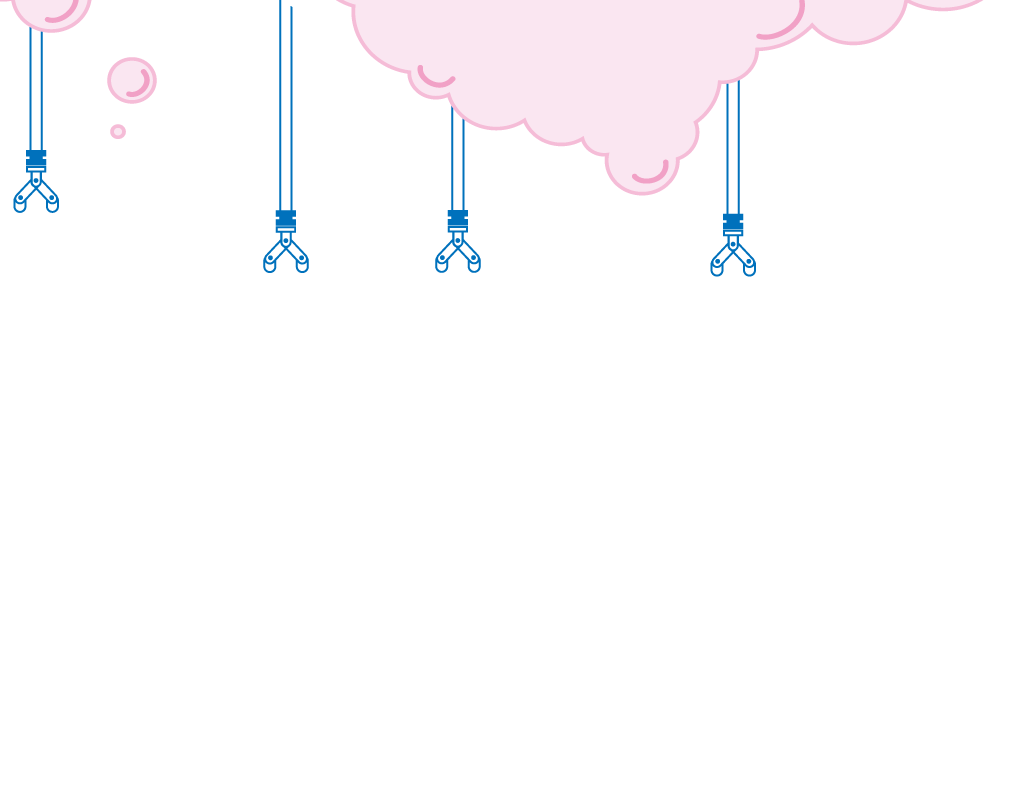
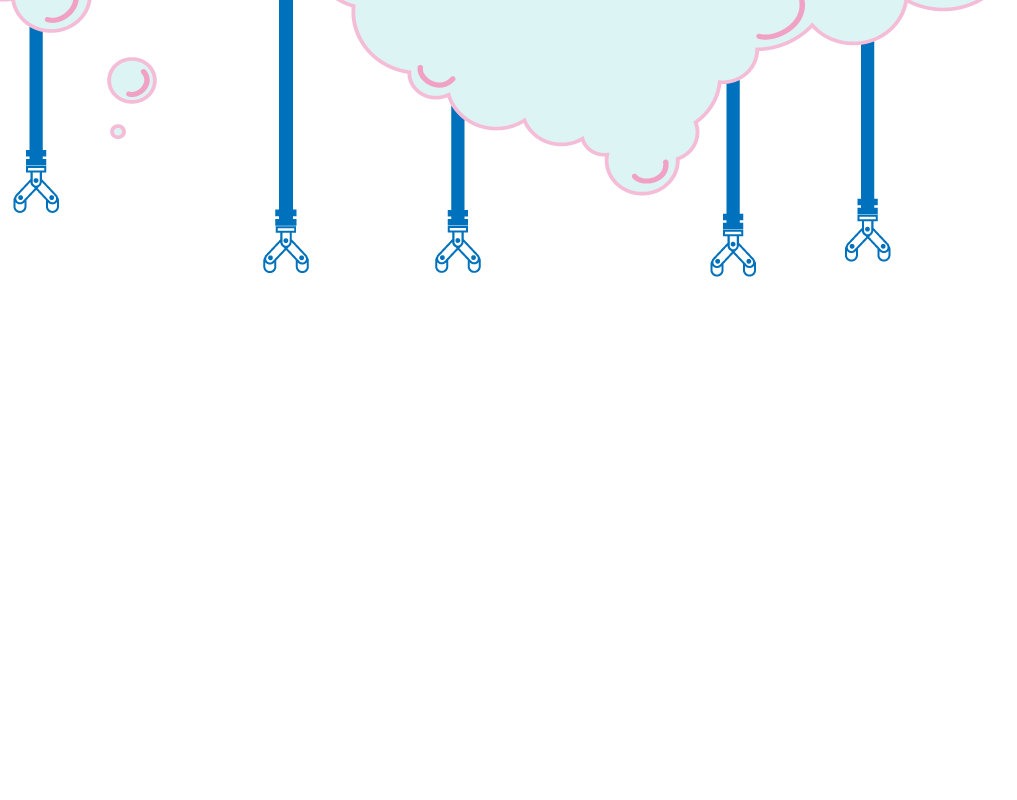
added new jumbotron background, fixed card layout, added new text shadowing for scroll, added text carasoul

diff --git a/sass/styles.scss b/sass/styles.scss
@@ -18,104 +18,95 @@ $shadow2: #cbc7e3;
 
 html,
 body {
-	background: $shadow2;
+	background: #E2E2E3;
 	width: 100%;
 	height: 100%;
+}
+
+#main {
+    width: 100%;
+	height: 100%;    
+}
+
+span {
+    padding-top: 90px;
 }
 #header-background {
     min-height: 100%;
     // min-width: 50%;
-    max-width: 95%;
+    max-width: 100%;
     text-align: center;
     vertical-align: middle;
     position: relative;
 }
 
 #header {
-    font-family: "Constrocktion", sans-serif ;
-    min-height: 50%;
-    min-width: 100%;
+    font-family: 'Dosis', sans-serif;
     text-align: center;
     vertical-align: middle;
     position: relative;
-    color: $face;
-    font-size: 10vw;
+    color: $flourish;
+    font-size: 7vw;
     // padding-top: 4%;
-    padding-bottom: 1%;
-    margin-top: -5%;
+    // padding-bottom: 1%;
+    margin-top: -2%;
+    max-width: 100%;
     letter-spacing: .6rem;
-    background-image: url('../img/mix01.png');
+    text-shadow:
+	1px 1px 0 #CCC,
+	2px 2px 0 #CCC, /* end of 2 level deep grey shadow */
+	3px 3px 0 #444,
+	4px 4px 0 #444,
+	5px 5px 0 #444,
+	6px 6px 0 #444; /* end of 4 level deep dark shadow */
 }
 
 .jumbotron {
-    background-image: url('../img/class-photo.jpg');
+    background-image: url('../img/robot-background-01-01.png');
     background-repeat: no-repeat;
     background-attachment: fixed;
     background-position: center;
     background-size: cover;
-    min-height: 600px;
-    opacity: 0.5;
-    filter: alpha(opacity=50); /* For IE8 and earlier */
-    // // background-blend-mode:lighten;
+    min-height: 650px;
 }
 
-//cards
-// .card-img-top {
-//     display: block;
-//     width: 100%;
-//     height: auto;
-// }
+//moving text box
+#moving-text {
+padding: 2em 2em;
+  font: normal 40px/50px Arial, sans-serif;
+  color: $shadowdots;
+}
+p {
+  height: 50px;
+  float: left;
+  margin-right: 0.3em;
+}
+b {
+  float: left;
+  overflow: hidden;
+  position: relative;
+  height: 50px;
+}
 
-// .card {
-//     font-size: 1em;
-//     overflow: hidden;
-//     padding: 0;
-//     border: none;
-//     border-radius: .28571429rem;
-//     box-shadow: 0 1px 3px 0 #d4d4d5, 0 0 0 1px #d4d4d5;
-// }
+#move {
+ display: inline-block;
+color: #e74c3c;
+position: relative;
+white-space: nowrap;
+top: 0;
+left: 0;
+-webkit-animation: move 5s;
+-webkit-animation-iteration-count: infinite;
+-webkit-animation-delay: 1s;
+}
 
-// .card-inverse .btn {
-//     border: 1px solid rgba(0, 0, 0, .05);
-// }
-
-// .card-block {
-//     font-size: 1em;
-//     position: relative;
-//     margin: 0;
-//     padding: 1em;
-//     border: none;
-//     border-top: 1px solid rgba(34, 36, 38, .1);
-//     box-shadow: none;
-// }
-
-// .card-text {
-//     clear: both;
-//     margin-top: .5em;
-//     color: rgba(0, 0, 0, .68);
-// }
-
-// .card-title {
-//     font-size: 1.28571429em;
-//     font-weight: 700;
-//     line-height: 1.2857em;
-// }
-
-// .card-footer {
-//     font-size: 1em;
-//     position: static;
-//     top: 0;
-//     left: 0;
-//     max-width: 100%;
-//     padding: .75em 1em;
-//     color: rgba(0, 0, 0, .4);
-//     border-top: 1px solid rgba(0, 0, 0, .05) !important;
-//     background: #fff;
-// }
-//
-// .card-inverse .btn {
-//     border: 1px solid rgba(0, 0, 0, .05);
-// }
+@keyframes move {
+0%  { top: 0px; }
+20% { top: -50px; }
+40% { top: -100px; }
+60% { top: -150px; }
+80% { top: -200px; }
+}
 
 .profile {
     position: absolute;

diff --git a/partials/StudentProfiles.html b/partials/StudentProfiles.html
@@ -1,5 +1,16 @@
 
-	<div class="row">
+	<div id="moving-text" class="row">
+		<p>We are</p>
+<b>
+  <span id="move">
+    web developers<br />
+    css cowboys<br />
+    python power rangers<br />
+    robot humans<br />
+    </span>
+</b>
+</div>
+<div class="row">
 	<div class="col-sm-4 col-md-4 col-lg-6 mt-4" style="margin-top: 2em; margin-bottom: 2em;"
 			 ng-repeat="student in studentList"
 			 ng-mouseenter="currentProfileMouseover = $index"
@@ -9,16 +20,16 @@
 			<div class="card card-inverse card-info" style="border: 1px solid rgba(0, 0, 0, .05); font-size: 1em; overflow: hidden; padding: 0; border: none; border-radius: .28571429rem; box-shadow: 0 1px 3px 0 #d4d4d5, 0 0 0 1px #d4d4d5; border: 1px solid rgba(0, 0, 0, .05);">
 				<img class="card-img-top img-responsive" src="{{student.image}}" style="display: block; width: 100%; height: auto;"/>
     		<div class="card-block" style="font-size: 1em; position: relative; margin: 0; padding: 1em; border: none; border-top: 1px solid rgba(34, 36, 38, .1); box-shadow: none;">
-				<figure class="profile profile-inline" style="position: absolute; top: -12px; display: inline-block; overflow: hidden; box-sizing: border-box; width: 25px; height: 25px; margin: 0; border: 1px solid #fff; border-radius: 50%; position: relative; top: 0; display: inline-block; margin-left: 4px; vertical-align: top;">
+				<!-- <figure class="profile profile-inline" style="position: absolute; top: -12px; display: inline-block; overflow: hidden; box-sizing: border-box; width: 25px; height: 25px; margin: 0; border: 1px solid #fff; border-radius: 50%; position: relative; top: 0; display: inline-block; margin-left: 4px; vertical-align: top;">
 						   <img src="http://success-at-work.com/wp-content/uploads/2015/04/free-stock-photos.gif" class="profile-avatar" alt="" style="display: block; width: 100%; height: auto; border-radius: 50%;"/>
-				</figure>
+				</figure> -->
 				 <h4 class="card-title" style="font-size: 1.28571429em; font-weight: 700; line-height: 1.2857em;">{{student.name}}</h4>
 				 <div class="card-text" style="clear: both; margin-top: .5em; color: rgba(0, 0, 0, .68);">
-					 Blah Blah Blah
+					 {{student.website}}
 				 </div>
 			</div>
 			<div class="card-footer" style=" font-size: 1em; position: static; top: 0; left: 0; max-width: 100%; padding: .75em 1em; color: rgba(0, 0, 0, .4); border-top: 1px solid rgba(0, 0, 0, .05) !important; background: #fff;">
-				<button class="btn btn-info btn-sm" style="border: 1px solid rgba(0, 0, 0, .05);">Follow</button>
+				<button class="btn btn-info btn-sm" style="border: 1px solid rgba(0, 0, 0, .05);">About</button>
 		</div>
 	</div>
 </div>

diff --git a/css/main.css b/css/main.css
@@ -3,42 +3,83 @@
   src: url("../app/fonts/constrocktion.ttf") format("truetype"); }
 html,
 body {
-  background: #cbc7e3;
+  background: #E2E2E3;
   width: 100%;
   height: 100%; }
 
+#main {
+  width: 100%;
+  height: 100%; }
+
+span {
+  padding-top: 90px; }
+
 #header-background {
   min-height: 100%;
-  max-width: 95%;
+  max-width: 100%;
   text-align: center;
   vertical-align: middle;
   position: relative; }
 
 #header {
-  font-family: "Constrocktion", sans-serif;
-  min-height: 50%;
-  min-width: 100%;
+  font-family: 'Dosis', sans-serif;
   text-align: center;
   vertical-align: middle;
   position: relative;
-  color: #91d4ff;
-  font-size: 10vw;
-  padding-bottom: 1%;
-  margin-top: -5%;
+  color: #fff;
+  font-size: 7vw;
+  margin-top: -2%;
+  max-width: 100%;
   letter-spacing: .6rem;
-  background-image: url("../img/mix01.png"); }
+  text-shadow: 1px 1px 0 #CCC, 2px 2px 0 #CCC, 3px 3px 0 #444, 4px 4px 0 #444, 5px 5px 0 #444, 6px 6px 0 #444;
+  /* end of 4 level deep dark shadow */ }
 
 .jumbotron {
-  background-image: url("../img/class-photo.jpg");
+  background-image: url("../img/robot-background-01-01.png");
   background-repeat: no-repeat;
   background-attachment: fixed;
   background-position: center;
   background-size: cover;
-  min-height: 600px;
-  opacity: 0.5;
-  filter: alpha(opacity=50);
-  /* For IE8 and earlier */ }
+  min-height: 650px; }
 
+#moving-text {
+  padding: 2em 2em;
+  font: normal 40px/50px Arial, sans-serif;
+  color: #040351; }
+
+p {
+  height: 50px;
+  float: left;
+  margin-right: 0.3em; }
+
+b {
+  float: left;
+  overflow: hidden;
+  position: relative;
+  height: 50px; }
+
+#move {
+  display: inline-block;
+  color: #e74c3c;
+  position: relative;
+  white-space: nowrap;
+  top: 0;
+  left: 0;
+  -webkit-animation: move 5s;
+  -webkit-animation-iteration-count: infinite;
+  -webkit-animation-delay: 1s; }
+
+@keyframes move {
+  0% {
+    top: 0px; }
+  20% {
+    top: -50px; }
+  40% {
+    top: -100px; }
+  60% {
+    top: -150px; }
+  80% {
+    top: -200px; } }
 .profile {
   position: absolute;
   top: -12px;

diff --git a/index.html b/index.html
@@ -7,28 +7,20 @@
 	<link rel="stylesheet" type="text/css" href="lib/node_modules/flexboxgrid/dist/flexboxgrid.min.css">
 	<link rel="stylesheet" type="text/css" href="css/main.css">
 	<link rel="stylesheet" type="text/css" media="all" href="css/animate.css">
-	<link href="https://fonts.googleapis.com/css?family=Comfortaa:700|Lato" rel="stylesheet">
+<link href="https://fonts.googleapis.com/css?family=Dosis|Poppins" rel="stylesheet">
 </head>
 <div class="img-responsive jumbotron">
 	<div id="header-background" class="img-responsive">
-	    <h1 id="header" class="img-responsive option animated tada" data-heading="COHORT EIGHTEEN"><span data-heading="COHORT EIGHTEEN">COHORT EIGHTEEN</span></h1>
+	    <h1 id="header" class="img-responsive option animated bounceInDown" data-heading="COHORT EIGHTEEN"><span id="title"data-heading="COHORT EIGHTEEN"></br></br></br></br></br>COHORT EIGHTEEN</span></h1>
 	</div>
   </div>
 </div>
 <body ng-app="ClassWebsite">
-
-
-<div class="container">
-	<div class="row">
+<div class="row img-responsive" style="margin-left: 3em; margin-right: 3em;">
 	<!-- This refers to the home.html -->
 	<div ui-view>
 	</div>
-	</div>
 </div>
-
-
-
-
 
 <!-- Dependencies -->
 <script type="text/javascript" src="lib/node_modules/jquery/dist/jquery.min.js"></script>
